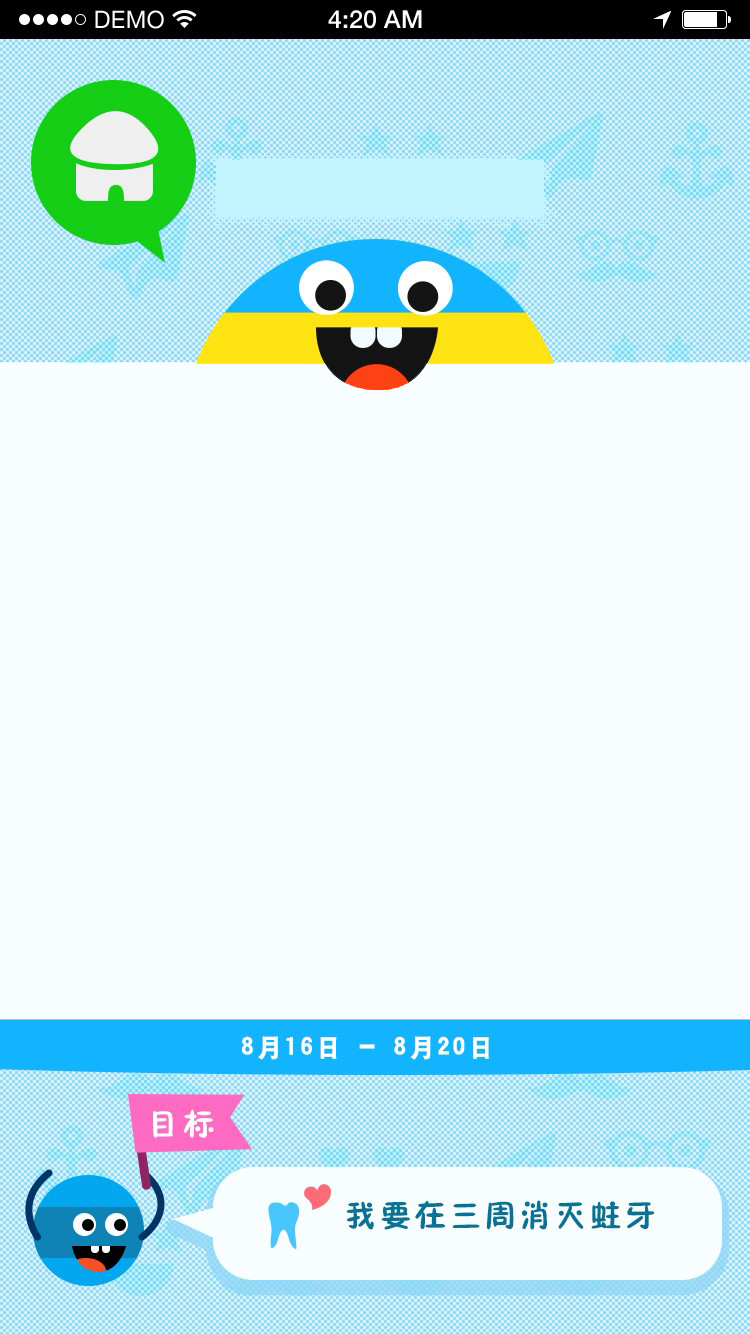
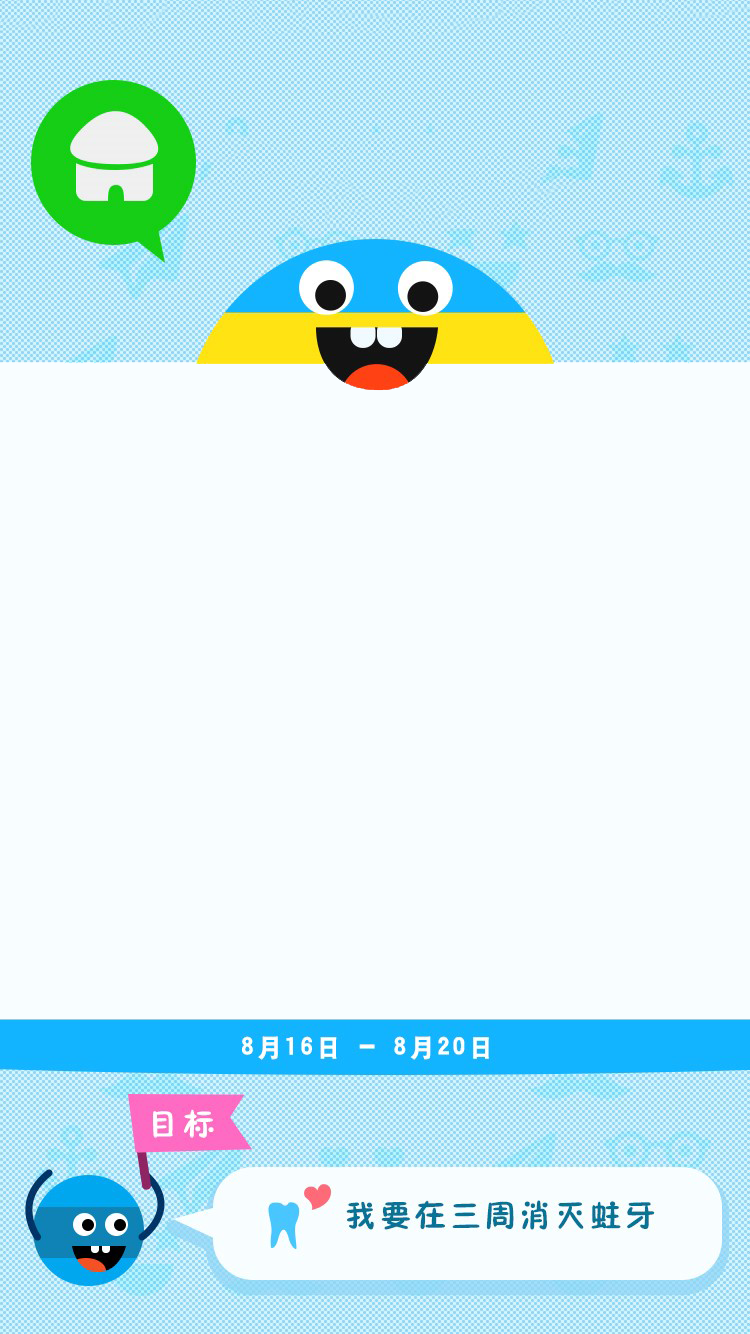
画好了界面。

Changed region(s): [[0.276, 0.0922, 0.7667, 0.1844], [0.0, 0.0, 1.0, 0.0307]]

diff --git a/ZNYS/BrushCalendarViewController.m b/ZNYS/BrushCalendarViewController.m
@@ -1,5 +1,5 @@
 //
-//  CalenderViewController.m
+//  CalendarViewController.m
 //  ZNYS
 //
 //  Created by yu243e on 16/6/21.
@@ -8,6 +8,7 @@
 
 #import "BrushCalendarViewController.h"
 #import "CoreDataHelper.h"
+#import "CalendarView.h"
 
 @interface BrushCalendarViewController ()
 
@@ -23,6 +24,13 @@
 
 @property (nonatomic,strong) UILabel * coinLabel;
 
+@property (nonatomic, strong) CalendarView * calendarView;
+
+@property (nonatomic, strong) UILabel *dateLabel;
+
+@property (nonatomic, strong) UILabel *goalLabel;
+
+- (NSInteger)currentWeekday;
 @end
 
 @implementation BrushCalendarViewController
@@ -36,6 +44,9 @@
     _userLabel = nil;
     _coinLabel = nil;
     _coinView = nil;
+    _calendarView = nil;
+    _dateLabel = nil;
+    _goalLabel = nil;
 }
 
 - (void)viewDidLoad {
@@ -49,6 +60,9 @@
     [self.view addSubview:self.userLabel];
     [self.view addSubview:self.coinLabel];
     [self.view addSubview:self.coinView];
+    [self.view addSubview:self.calendarView];
+    [self.view addSubview:self.dateLabel];
+    [self.view addSubview:self.goalLabel];
     
     WS(weakSelf, self);
     [self.backgroundImageView mas_makeConstraints:^(MASConstraintMaker *make) {
@@ -95,8 +109,41 @@
         make.height.mas_equalTo(CustomHeight(17));
     }];
     
+    
+//    [self.calendarView mas_makeConstraints:^(MASConstraintMaker *make) {
+//        make.top.equalTo(weakSelf.view.mas_top).with.offset(CustomHeight(205));
+//        make.centerX.mas_equalTo(weakSelf.view.mas_centerX);
+//        
+//    }];
+    
+    
+    [self.dateLabel mas_makeConstraints:^(MASConstraintMaker *make) {
+        make.top.equalTo(weakSelf.view.mas_top).with.offset(CustomWidth(513));
+        make.centerY.mas_equalTo(weakSelf.view.mas_centerY);
+        make.width.mas_equalTo(CustomWidth(375));
+        make.height.mas_equalTo(CustomHeight(30));
+    }];
+    
+    [self.goalLabel mas_makeConstraints:^(MASConstraintMaker *make) {
+        make.bottom.equalTo(weakSelf.view.mas_bottom).with.offset(CustomWidth(-40));
+        make.left.equalTo(weakSelf.view.mas_left).with.offset(CustomWidth(170));
+        make.width.mas_equalTo(CustomWidth(180));
+        make.height.mas_equalTo(CustomHeight(30));
+    }];
 }
-
+- (void)viewWillAppear:(BOOL)animated {
+    
+    
+    [super viewWillAppear:animated];
+}
+- (void)viewDidAppear:(BOOL)animated {
+    [super viewDidAppear:animated];
+    NSLog(@"\n\ncalendarView %@\n",NSStringFromCGRect(self.calendarView.frame));
+    for (UIImageView *aImage in self.calendarView.dayBackgroundArray) {
+        NSLog(@"dayBackgroundArray %ld %@\n",(long)aImage.tag, NSStringFromCGRect(aImage.frame));
+    }
+    
+}
 - (void)didReceiveMemoryWarning {
     [super didReceiveMemoryWarning];
     // Dispose of any resources that can be recreated.
@@ -112,6 +159,13 @@
 }
 */
 #pragma mark private met
+
+- (NSInteger)currentWeekday:(NSDate *)date{
+    NSCalendar *gregorianCalendar = [[NSCalendar alloc]initWithCalendarIdentifier:NSCalendarIdentifierGregorian];
+    NSInteger weekday = [gregorianCalendar component:NSCalendarUnitWeekday fromDate:date];
+    NSLog(@"%ld weekday",weekday);
+    return weekday;
+}
 
 #pragma mark event action
 
@@ -175,4 +229,65 @@
     return _coinLabel;
 }
 
+- (CalendarView *)calendarView {
+    if(!_calendarView) {
+        //周日到周六 1 - 7
+        _calendarView = [[CalendarView alloc] initWithFrame:CGRectMake(CustomWidth(2.5), CustomHeight(190), CustomWidth(370), CustomHeight(280)) firstDay:[self currentWeekday:[NSDate date]]];
+        _calendarView.layer.cornerRadius = 8.0f;
+        [_calendarView changeTodayBackgroundColor:2];
+        _calendarView.buttonClickBlock = ^(NSInteger number){
+            NSLog(@"tap %ld",(long)number);
+        };
+    }
+    
+    return _calendarView;
+}
+
+- (UILabel *)dateLabel {
+    if(!_dateLabel) {
+        NSDate *firstDate;
+        NSDate *lastDate;
+        NSString *firstDateString;
+        NSString *lastDateString;
+        
+        
+        NSDateFormatter *formatter = [[NSDateFormatter alloc] init] ;
+        [formatter setDateFormat:@"YYYY年MM月dd日"];
+        
+        //firstDate = 测试日期
+        NSDateComponents *dateComponents = [[NSDateComponents alloc] init];
+        dateComponents.day = 10;
+        dateComponents.month = 6;
+        dateComponents.year = 2016;
+        NSCalendar *gregorianCalendar = [[NSCalendar alloc] initWithCalendarIdentifier:NSCalendarIdentifierGregorian];
+        firstDate = [gregorianCalendar dateFromComponents:dateComponents];
+        
+        //firstDay
+        firstDateString = [formatter stringFromDate:firstDate];
+        
+        //lastDay
+        lastDate = [[NSDate alloc]initWithTimeInterval:(NSTimeInterval)(21*24*60*60) sinceDate:firstDate];
+        lastDateString = [formatter stringFromDate:lastDate];
+        
+        _dateLabel = [[UILabel alloc]init];
+        _dateLabel.text = [[NSString alloc] initWithFormat:@"%@ - %@", firstDateString, lastDateString];
+        _dateLabel.textAlignment = NSTextAlignmentCenter;
+        
+        _dateLabel.textColor = [UIColor whiteColor];
+        _dateLabel.backgroundColor = RGBCOLOR(16,180,255);
+    }
+    return _dateLabel;
+}
+
+- (UILabel *)goalLabel {
+    if (!_goalLabel) {
+        _goalLabel = [[UILabel alloc]init];
+        _goalLabel.text = [[NSString alloc]initWithFormat:@"我要在21天消灭蛀牙"];
+        
+        _dateLabel.textColor = RGBCOLOR(15,112,135);
+        _goalLabel.backgroundColor = RGBCOLOR(16,180,255);
+        
+    }
+    return _goalLabel;
+}
 @end

diff --git a/ZNYS/CalendarView.h b/ZNYS/CalendarView.h
@@ -1,0 +1,23 @@
+//
+//  CalendarView.h
+//  ZNYS
+//
+//  Created by yu243e on 16/6/22.
+//  Copyright © 2016年 Woodseen. All rights reserved.
+//
+
+#import "ZNYSBaseView.h"
+
+typedef void(^ButtonClickBlock)(NSInteger number);
+
+@interface CalendarView : ZNYSBaseView
+
+@property (nonatomic,copy) ButtonClickBlock buttonClickBlock;
+@property (nonatomic, strong) NSMutableArray <UIButton *> * dayBackgroundArray;
+
+
+- (void)changeTodayBackgroundColor:(NSInteger) tag;
+
+//周日到周六 1 - 7
+- (instancetype)initWithFrame:(CGRect)frame firstDay:(NSInteger)weekDay;
+@end

diff --git a/ZNYS/ToolMacroes.h b/ZNYS/ToolMacroes.h
@@ -21,7 +21,7 @@
 #define RGBCOLOR(r,g,b)          [UIColor colorWithRed:(r)/255.0f green:(g)/255.0f blue:(b)/255.0f alpha:1]
 #define RGBACOLOR(r,g,b,a)       [UIColor colorWithRed:(r)/255.0f green:(g)/255.0f blue:(b)/255.0f alpha:(a)]
 
-#define CustomWidth(width)  (width/375.0f)*kSCREEN_WIDTH
-#define CustomHeight(height)  (height/667.0f)*kSCREEN_HEIGHT
+#define CustomWidth(width)  ((width)/375.0f)*kSCREEN_WIDTH
+#define CustomHeight(height)  ((height)/667.0f)*kSCREEN_HEIGHT
 
 #endif /* ToolMacroes_h */

diff --git a/ZNYS/CalendarView.m b/ZNYS/CalendarView.m
@@ -1,14 +1,14 @@
 //
-//  CalendarItemView.m
+//  CalendarView.m
 //  ZNYS
 //
-//  Created by yu243e on 16/6/21.
+//  Created by yu243e on 16/6/22.
 //  Copyright © 2016年 Woodseen. All rights reserved.
 //
 
-#import "CalendarItemView.h"
+#import "CalendarView.h"
 
-@implementation CalendarItemView
+@implementation CalendarView
 
 /*
 // Only override drawRect: if you perform custom drawing.

diff --git a/ZNYS/BrushCalendarViewController.h b/ZNYS/BrushCalendarViewController.h
@@ -1,5 +1,5 @@
 //
-//  CalenderViewController.h
+//  CalendarViewController.h
 //  ZNYS
 //
 //  Created by yu243e on 16/6/21.
